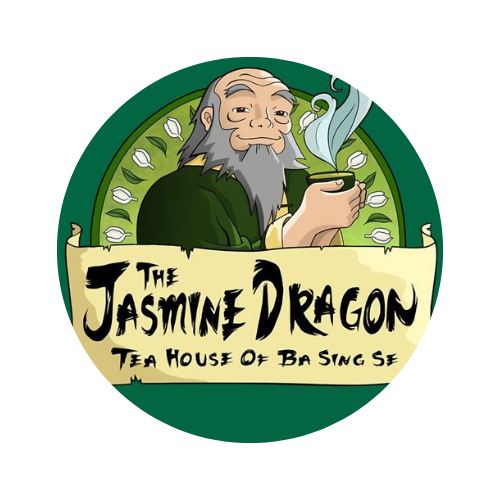
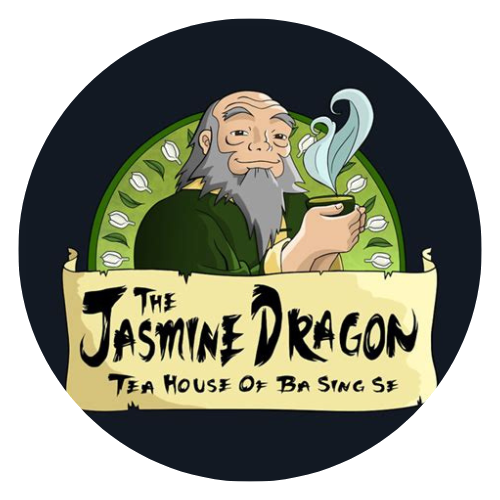
add backgorund color & new img

diff --git a/src/index.css b/src/index.css
@@ -10,6 +10,7 @@ body {
   margin: 2rem;
   font-family: "Ubuntu", sans-serif;
   line-height: 1.7;
+  background-color: #adb5bd;
 }
 
 .card {
@@ -24,22 +25,22 @@ body {
 }
 
 .btn-container button {
-  background-color: #cc9900;
+  background-color: #c56525;
   color: #fff;
   border: 0;
   border-radius: 8px;
   width: 180px;
   height: 50px;
   cursor: pointer;
-  margin-left: 12%;
+  margin-left: 25%;
   margin-top: 1%;
   font: inherit;
 }
 
 .btn-container button:hover,
 .btn-container button:active {
-  background-color: #ddb12b;
-  border-color: #ddb12b;
+  background-color: #d58753;
+  border-color: #d58753;
 }
 
 .btn-detail button {
